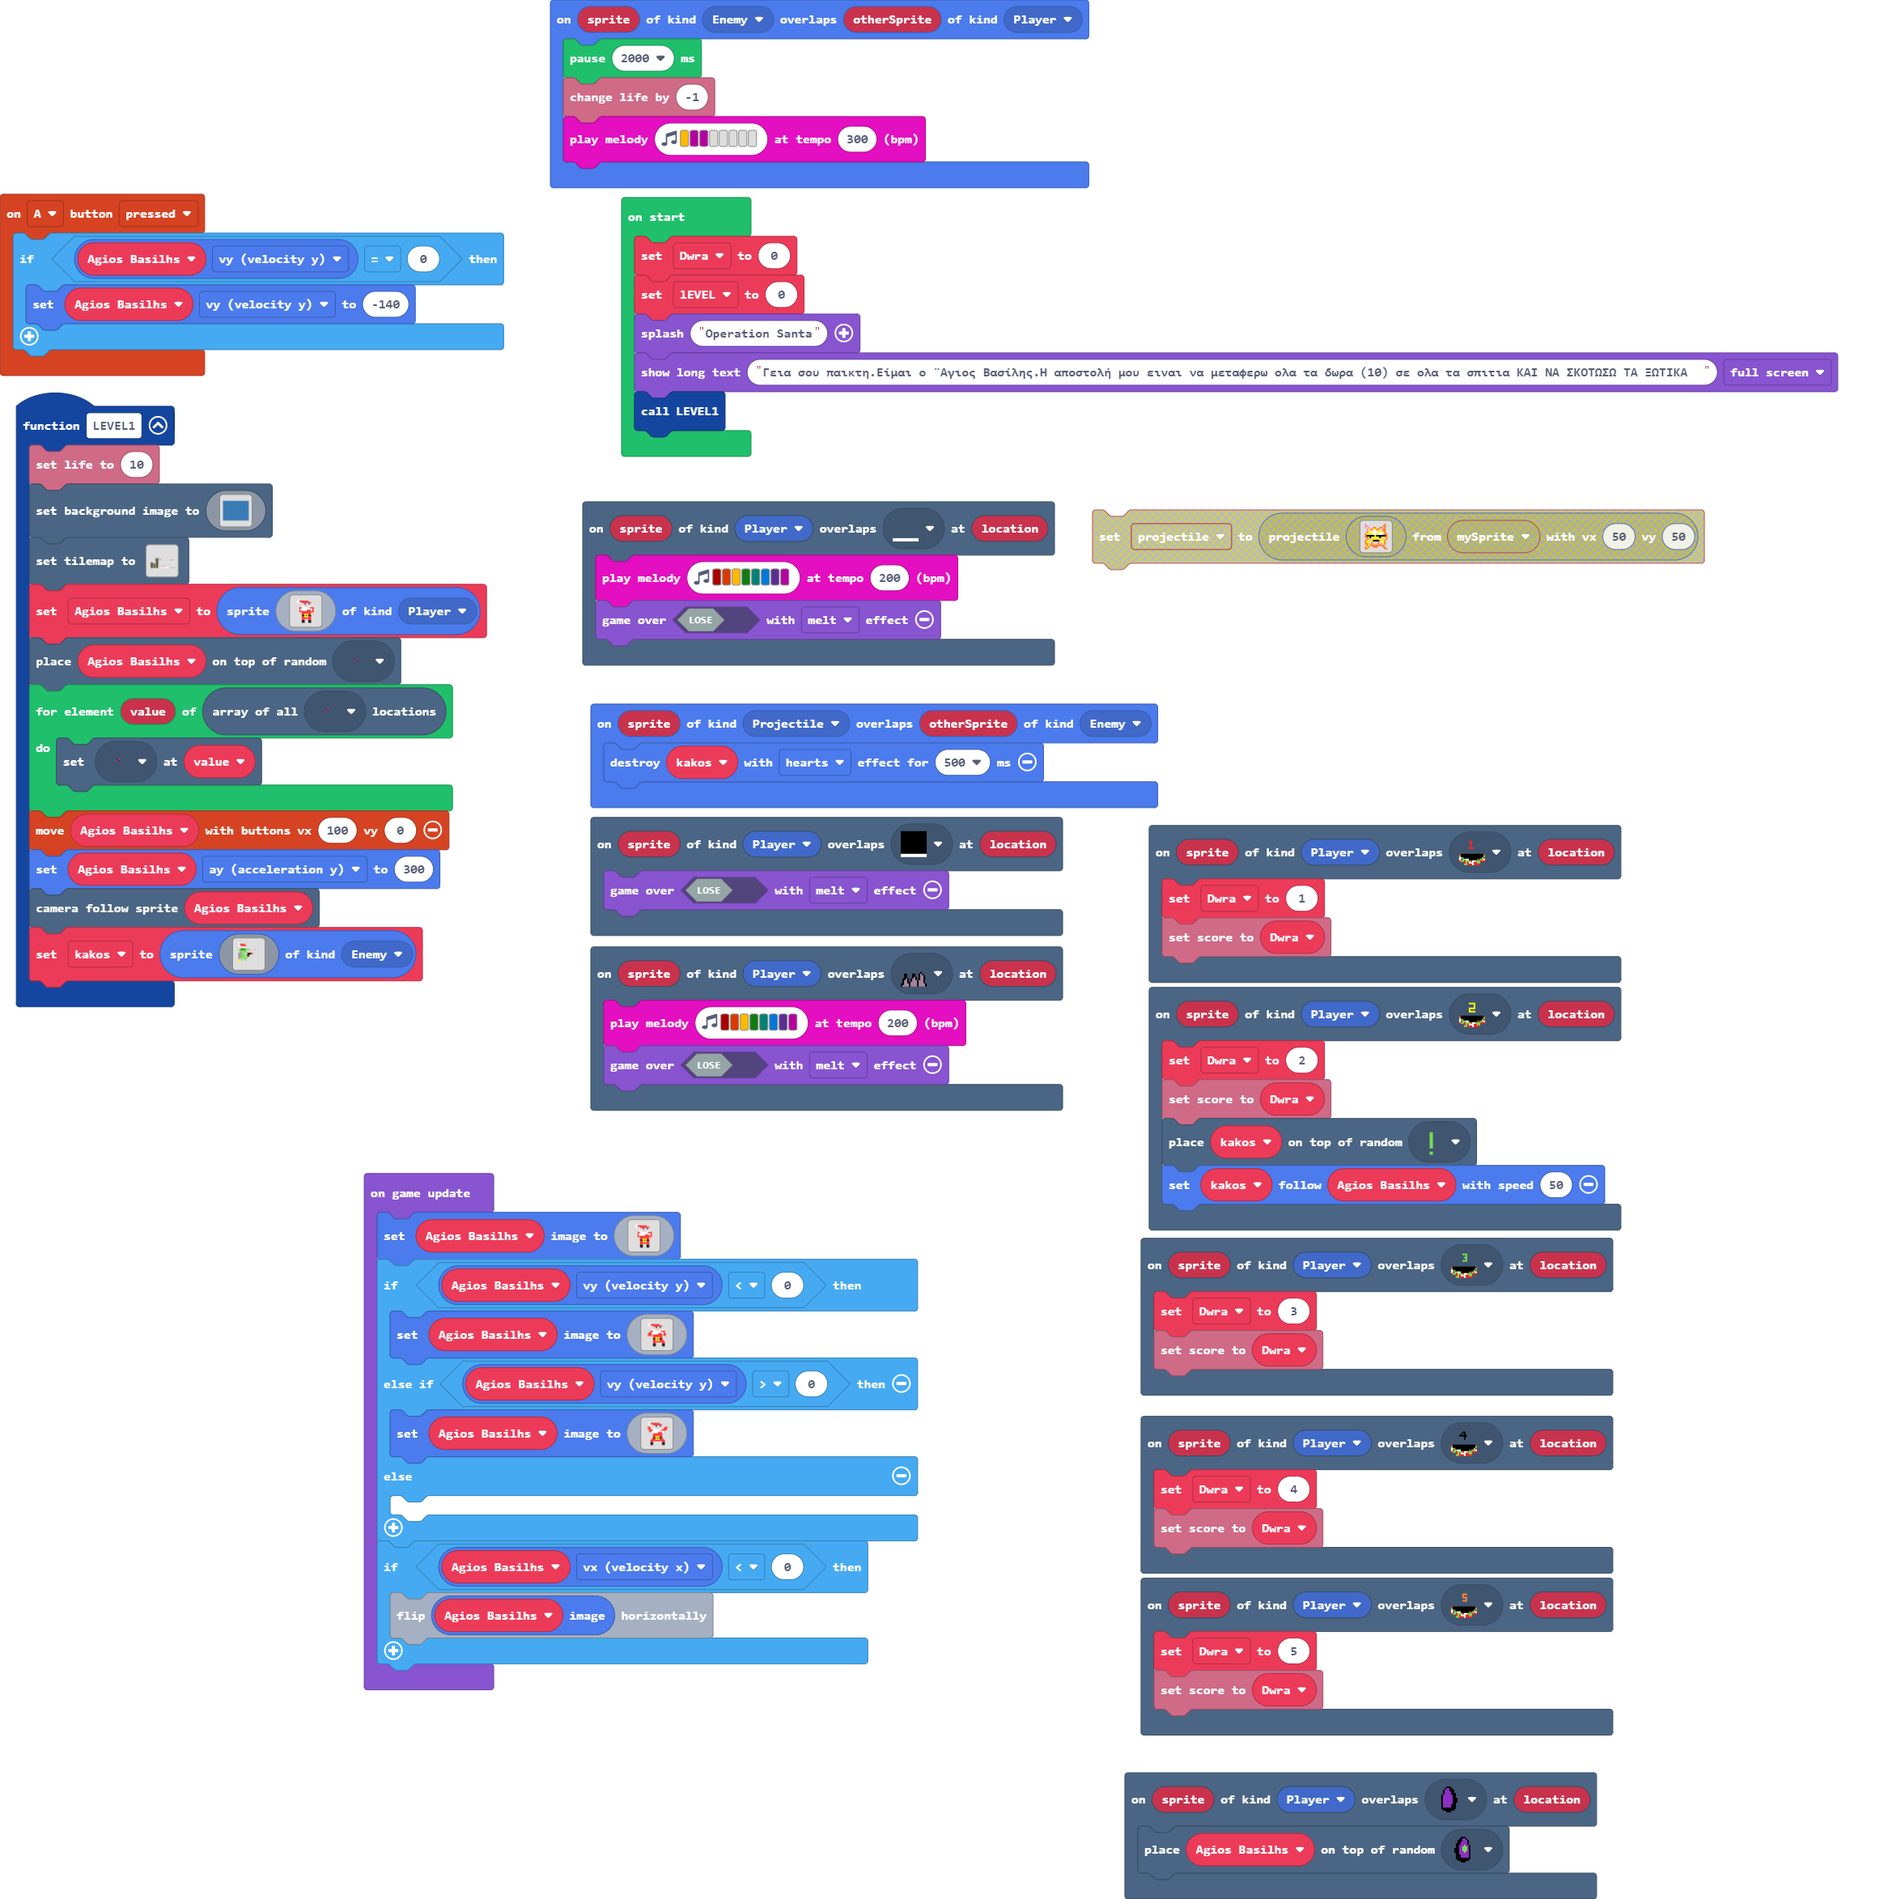
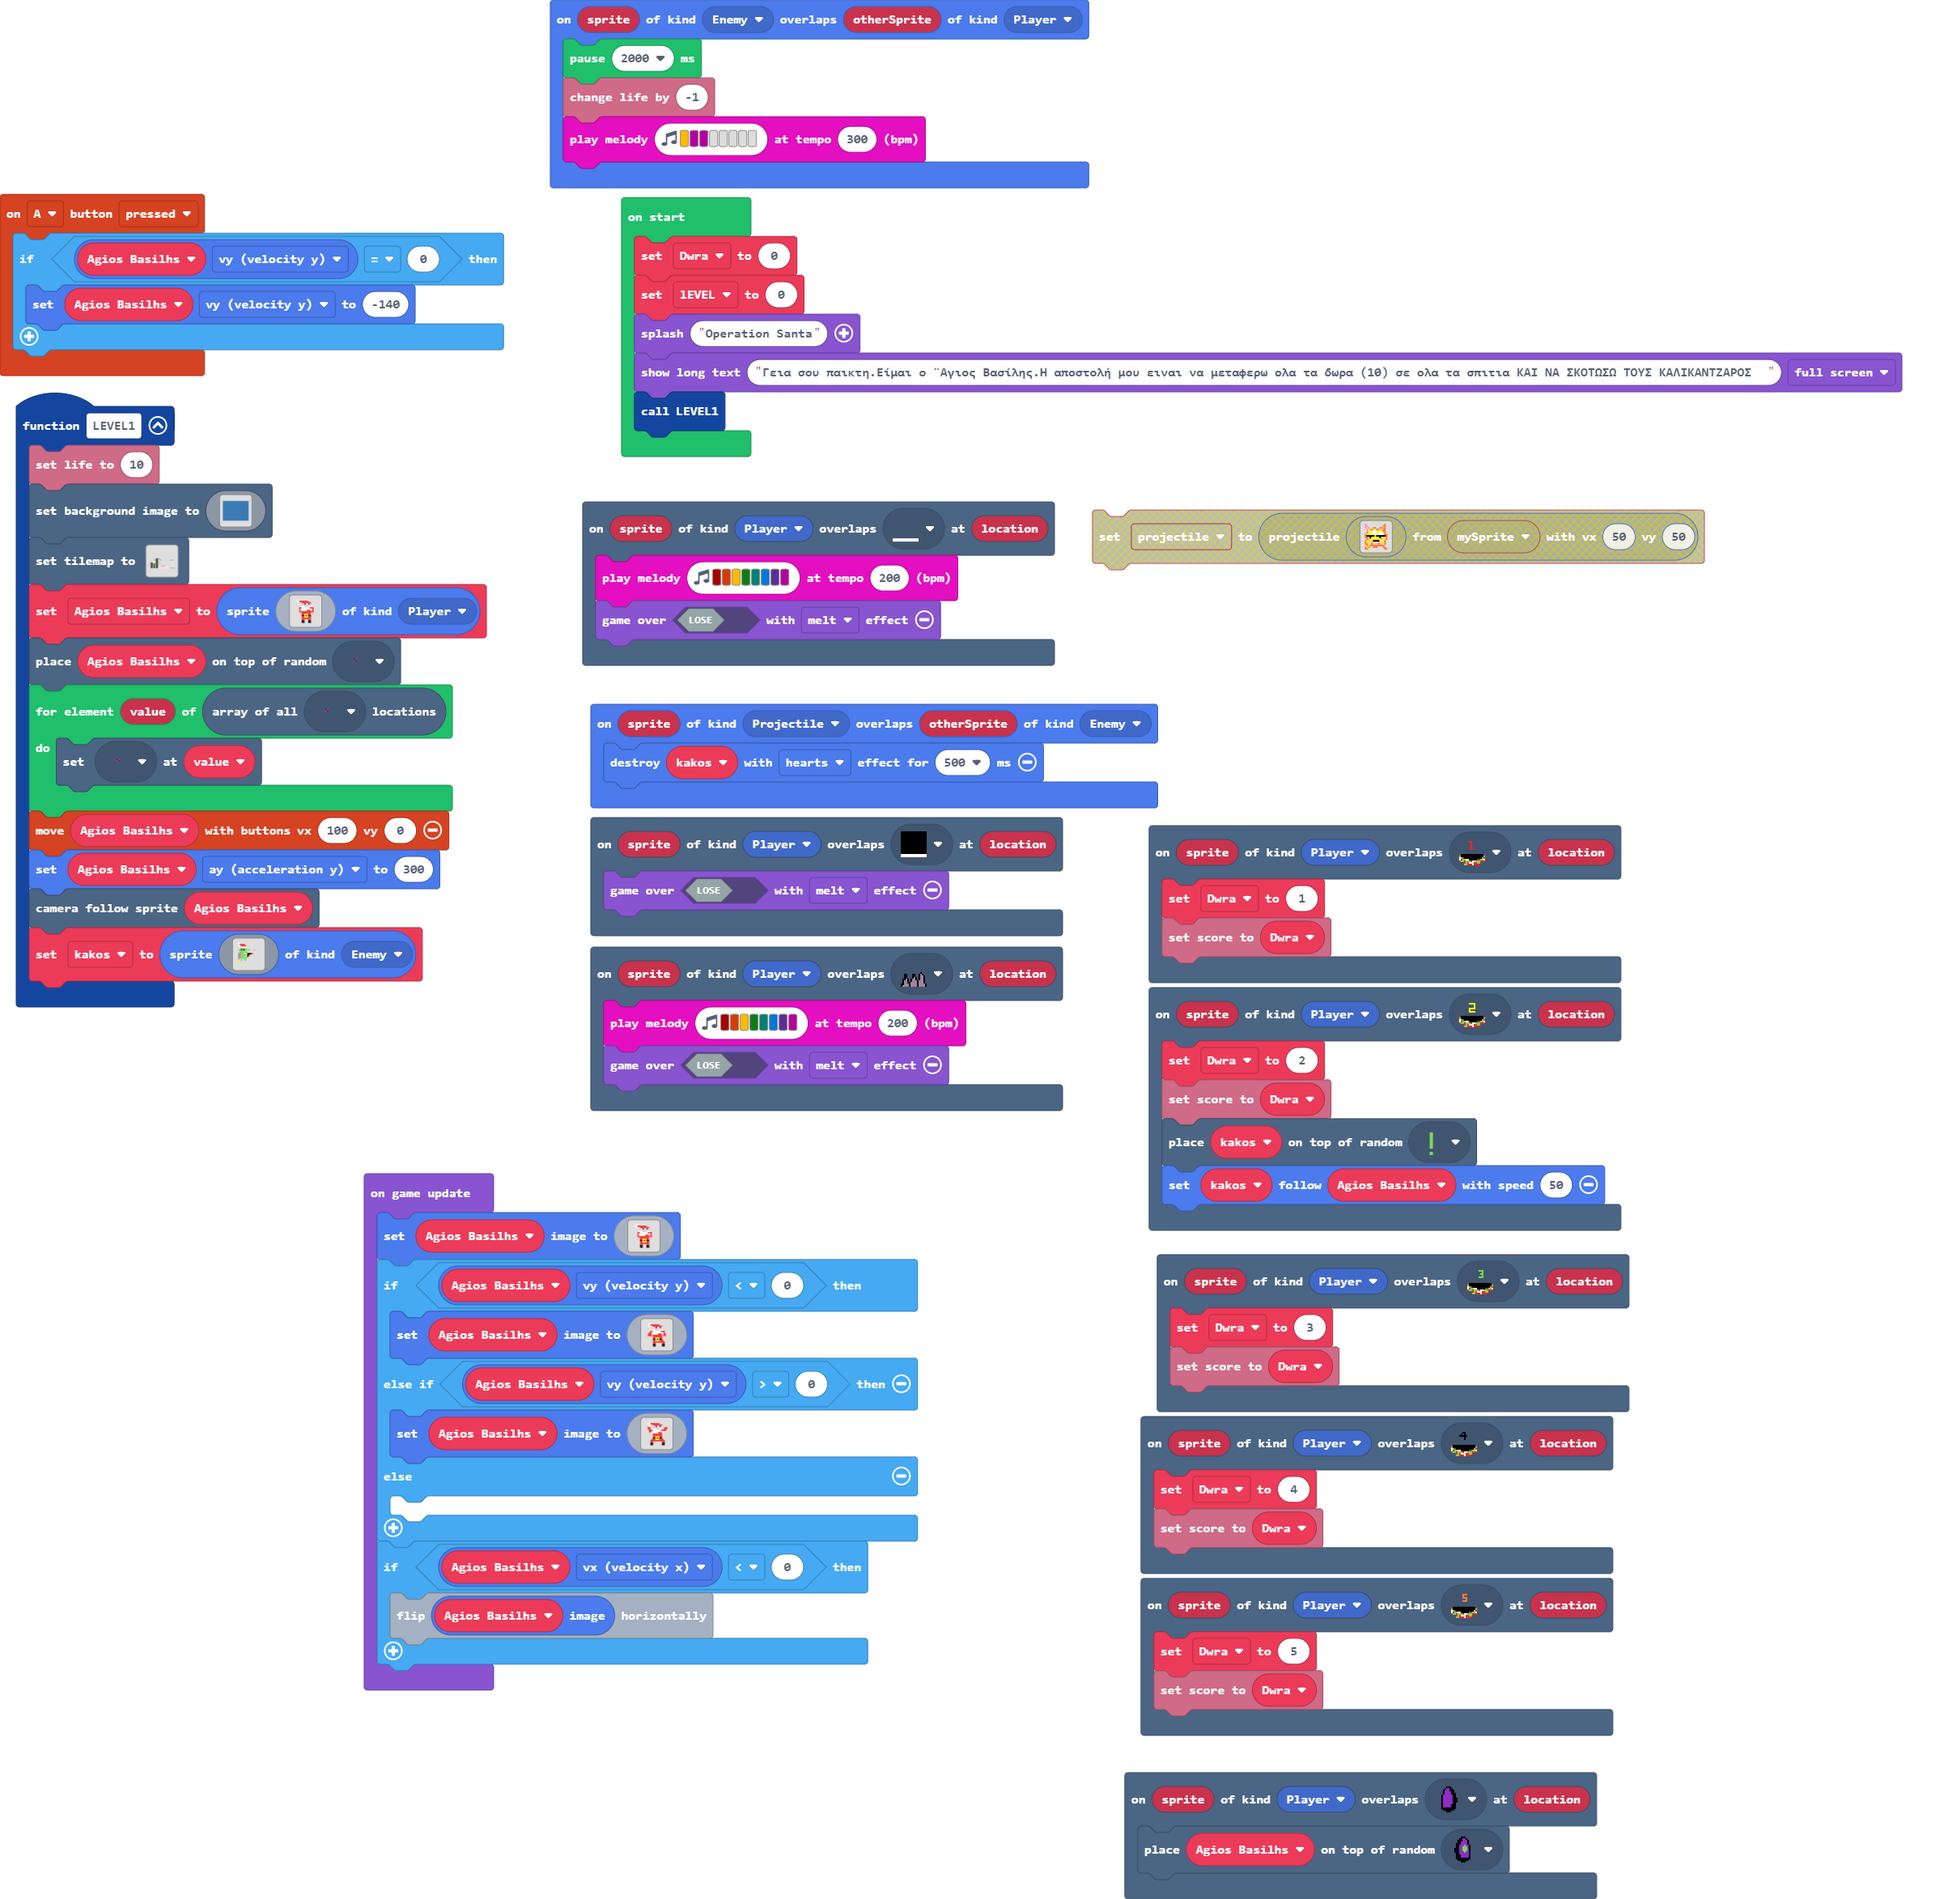
Update main.blocks, main.ts, tilemap.g.jres, tilemap.g.ts

diff --git a/tilemap.g.ts b/tilemap.g.ts
@@ -97,7 +97,7 @@ namespace myTiles {
 . . . . . . . . . . . . . . . . 
 `, [myTiles.transparency16], TileScale.Sixteen);
             case "level1":
[2 lines of base64/hex data omitted]
 ..........................................................................................
 ..........................................................................................
 ..........................................................................................

diff --git a/main.ts b/main.ts
@@ -234,7 +234,7 @@ let Dwra = 0
 Dwra = 0
 let lEVEL = 0
 game.splash("Operation Santa")
-game.showLongText("Γεια σου παικτη.Είμαι ο ¨Αγιος Βασίλης.Η αποστολή μου ειναι να μεταφερω ολα τα δωρα (10) σε ολα τα σπιτια ΚΑΙ ΝΑ ΣΚΟΤΩΣΩ ΤΑ ΞΩΤΙΚΑ  ", DialogLayout.Full)
+game.showLongText("Γεια σου παικτη.Είμαι ο ¨Αγιος Βασίλης.Η αποστολή μου ειναι να μεταφερω ολα τα δωρα (10) σε ολα τα σπιτια ΚΑΙ ΝΑ ΣΚΟΤΩΣΩ TOΥΣ ΚΑΛΙΚΑΝΤΖΑΡΟΣ  ", DialogLayout.Full)
 LEVEL1()
 game.onUpdate(function () {
     Agios_Basilhs.setImage(img`
